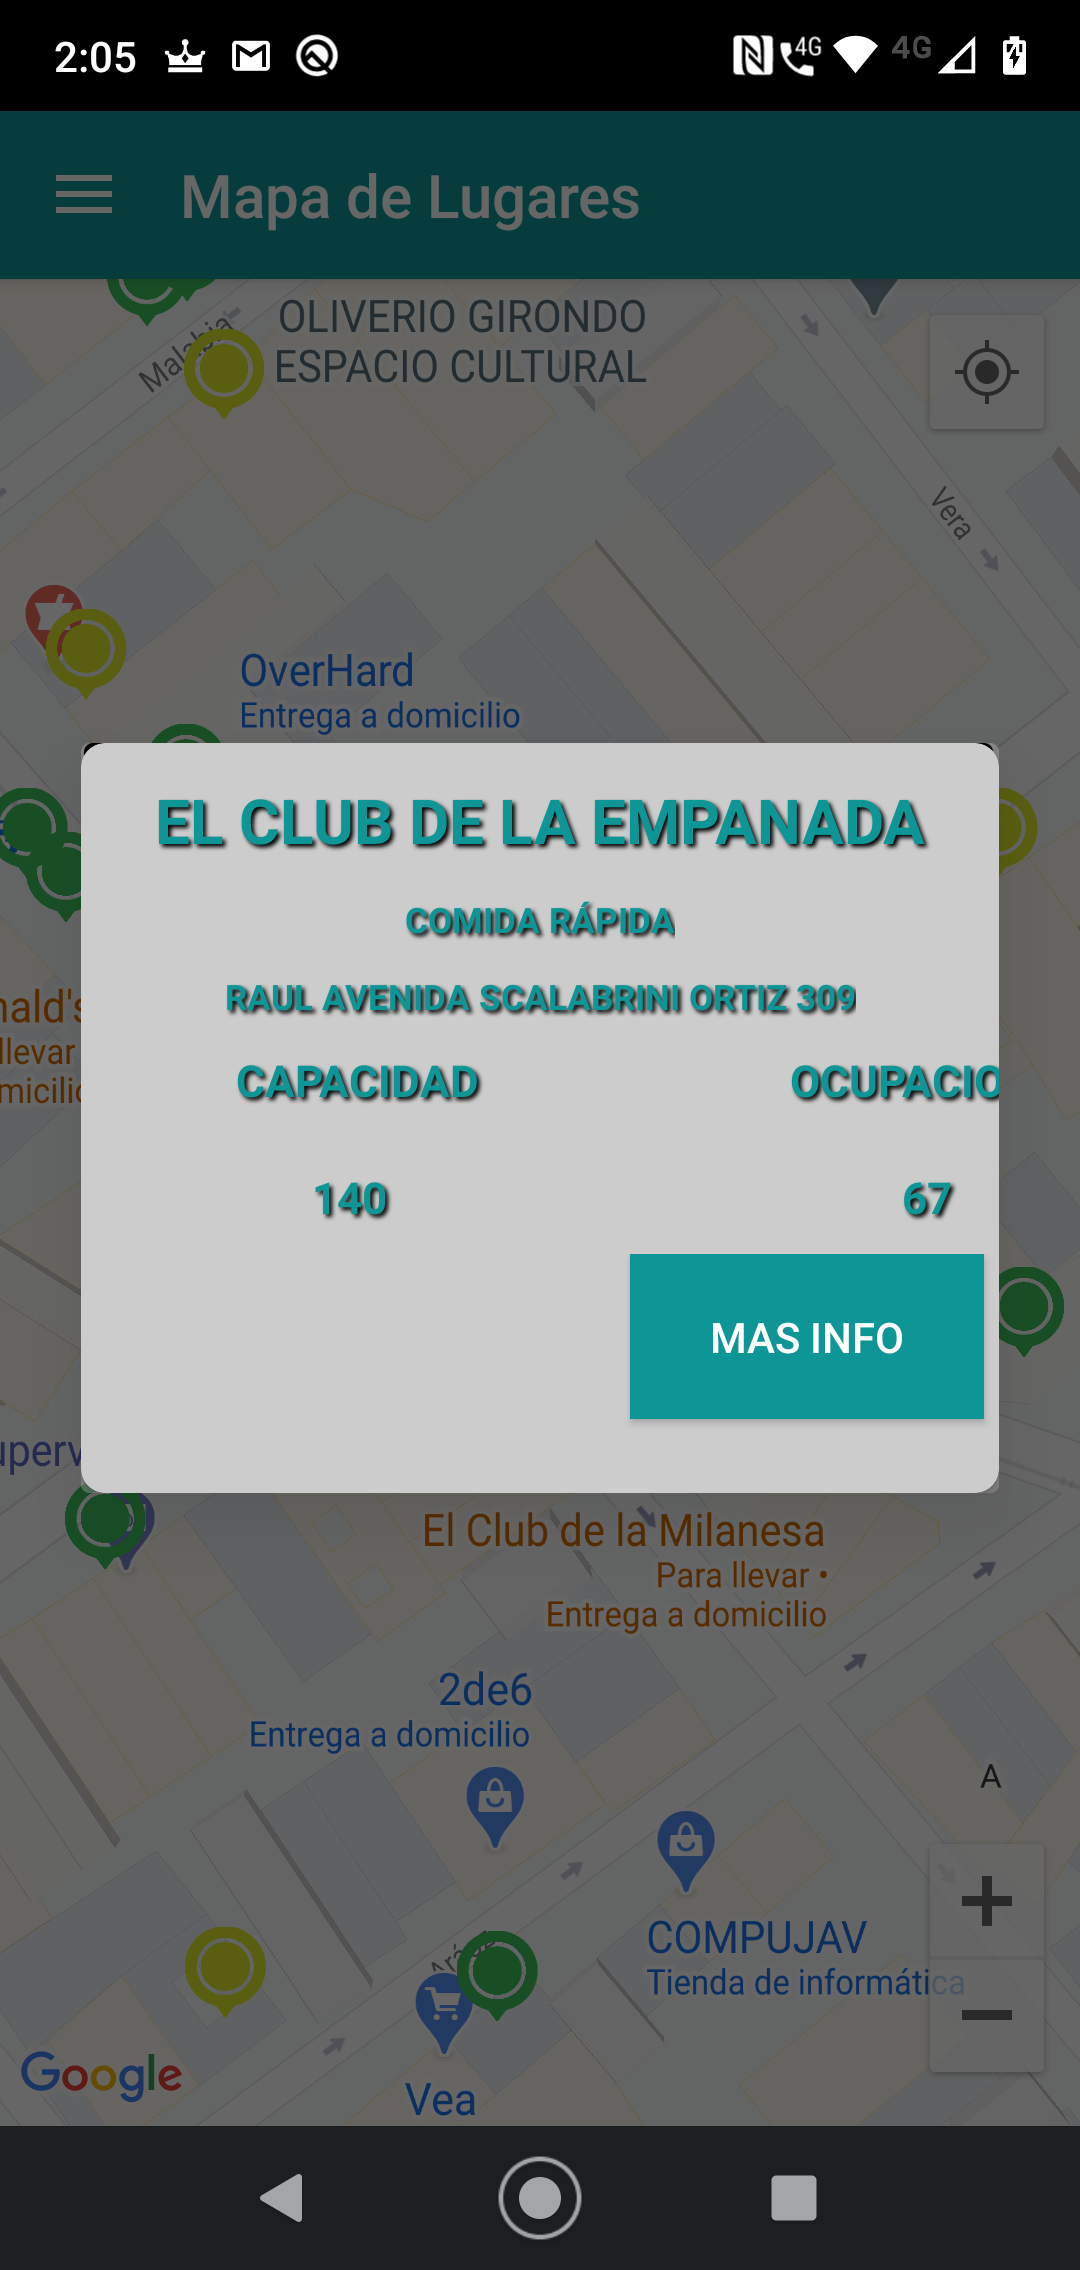
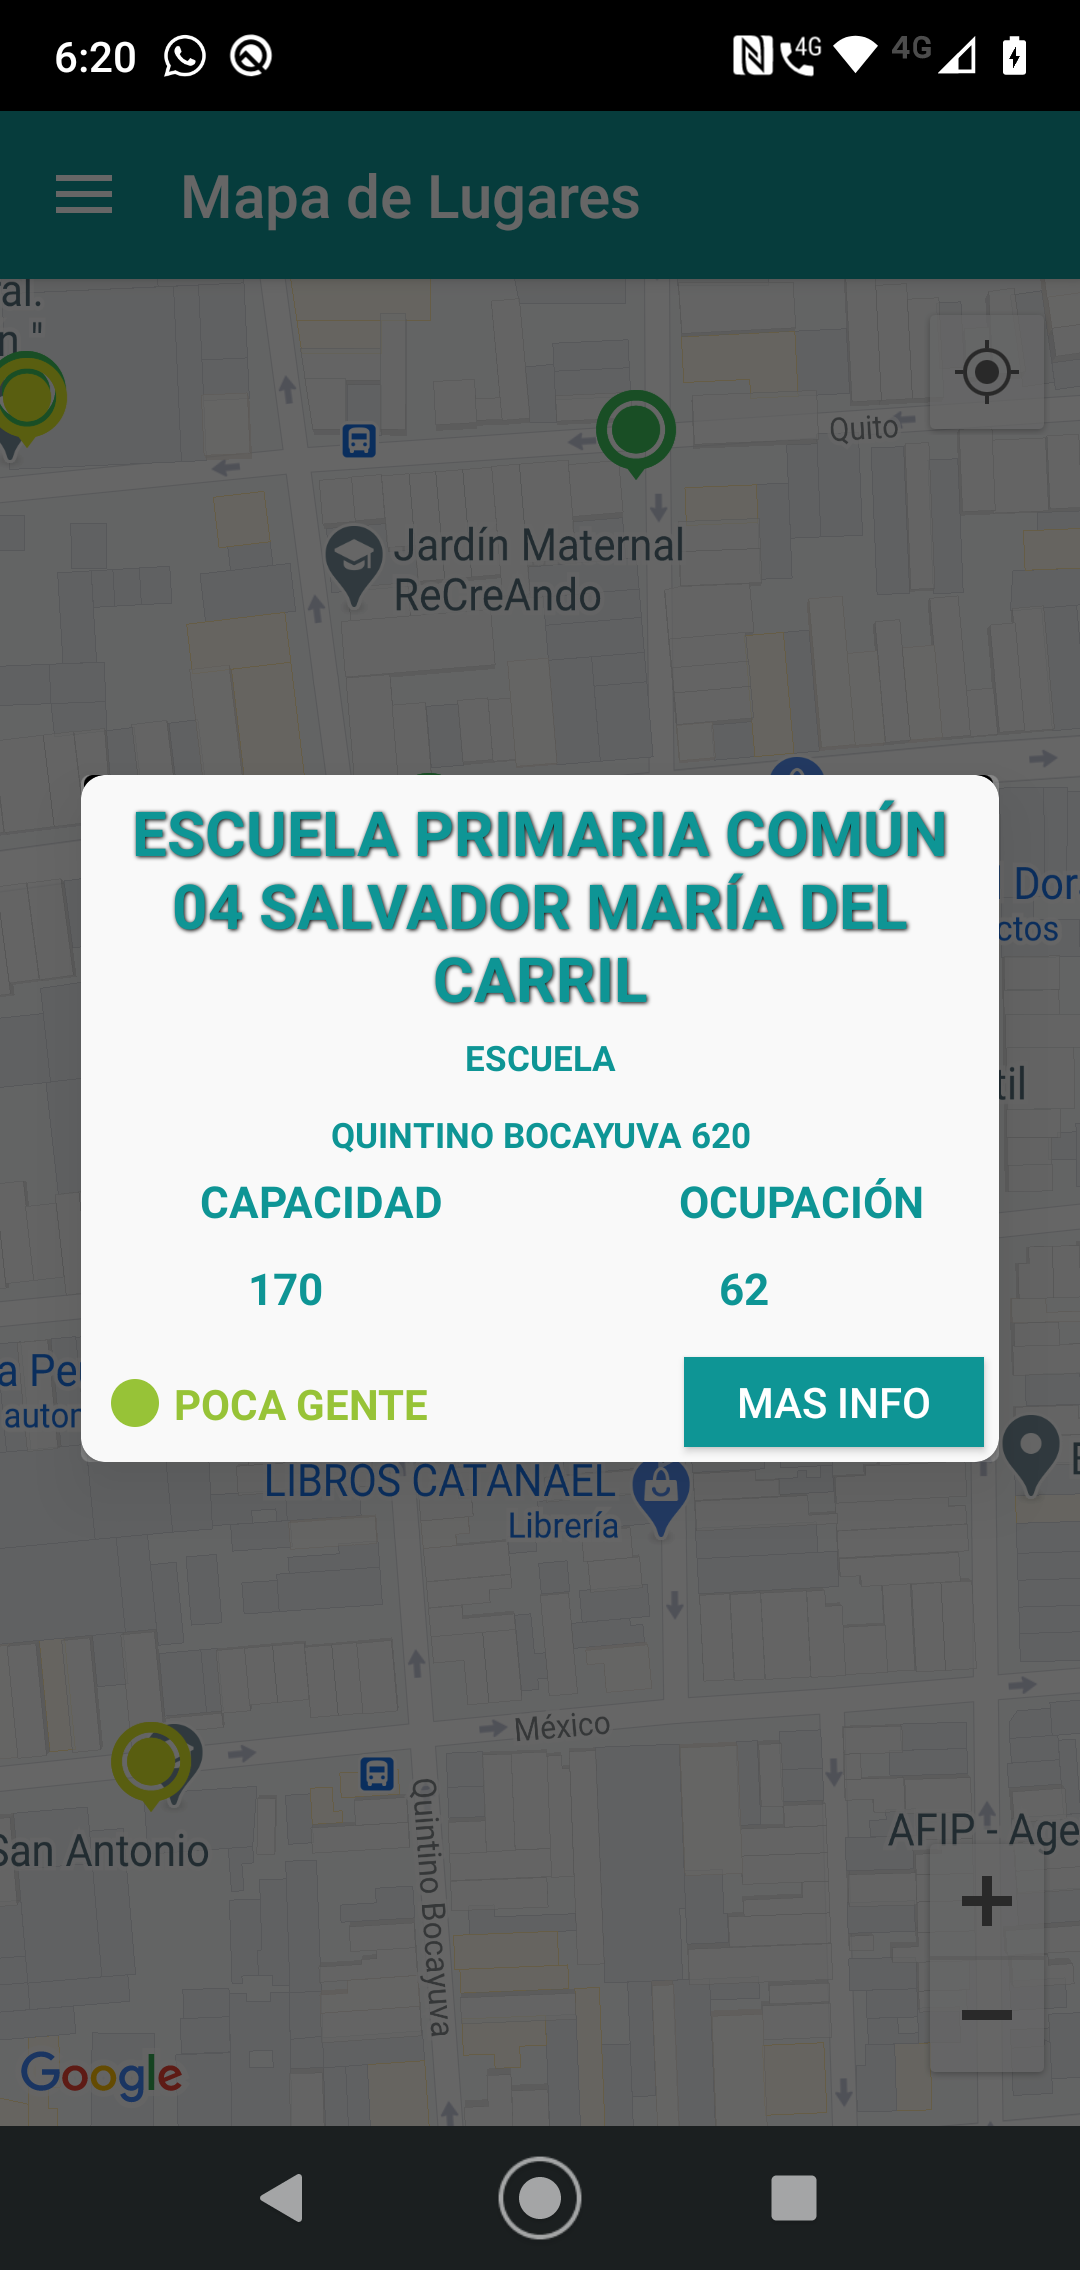
styles adjustments

diff --git a/app/src/main/java/com/utn_frba_mobile_2020_c2/safeout/adapters/PlaceAdapter.kt b/app/src/main/java/com/utn_frba_mobile_2020_c2/safeout/adapters/PlaceAdapter.kt
@@ -88,13 +88,13 @@ class PlaceAdapter(private var places:List<Place>,  private var view : View, pri
                                        PlaceController.getImage("https://salina.nixi.icu/categories/${place.category}/image"
                                             ,{
                                                 place.imgResource = it
+                                               placesFilterList.add(place)
                                             }
                                             ,{ _, _ ->
                                                ViewUtils.showSnackbar(view, R.string.error_image.toString())
+                                               placesFilterList.add(place)
                                                 }
                                             )
-
-                                        placesFilterList.add(place)
                                     }
 
                                 }, { _, message ->

diff --git a/app/src/main/java/com/utn_frba_mobile_2020_c2/safeout/fragments/MarkDetailFragment.kt b/app/src/main/java/com/utn_frba_mobile_2020_c2/safeout/fragments/MarkDetailFragment.kt
@@ -16,6 +16,7 @@ import com.utn_frba_mobile_2020_c2.safeout.models.Place
 import com.utn_frba_mobile_2020_c2.safeout.services.PlaceService
 import com.utn_frba_mobile_2020_c2.safeout.utils.RequestUtils2
 import com.utn_frba_mobile_2020_c2.safeout.utils.ViewUtils
+import com.utn_frba_mobile_2020_c2.safeout.views.OccupationDisplay
 import kotlinx.android.synthetic.main.activity_auth.*
 import kotlinx.android.synthetic.main.fragment_add_reservation.*
 import kotlinx.android.synthetic.main.fragment_mark_detail.*
@@ -56,6 +57,7 @@ class MarkDetailFragment() : DialogFragment() {
         mark_category.text = local.category
         value_capacity.text = local.capacity.toString()
         value_ocupation.text = local.occupation.toString()
+        occupationDisplay.level = OccupationDisplay.calculateLevel(local.occupation!!, local.capacity!!)
         button_info.setOnClickListener {
             openInfo()
         }

diff --git a/README.md b/README.md
@@ -14,37 +14,10 @@ Adicionalmente, creemos que sería sumamente útil para el potencial cliente con
 
 Actualmente no existe nada en el mercado que provea este tipo de información en vivo sobre el nivel de ocupación y capacidad actual de los lugares públicos. Es por eso que proponemos una solución software que brinde esta información a las personas, a través de una aplicación móvil nativa para dispositivos Android.
 
-# Roles de usuario
+# Roles de usuario - Funcionalidades
 La aplicación contará con dos roles de usuario: el administrador del lugar y el usuario final. 
 El administrador del lugar podrá definir y controlar toda clase de parámetros del lugar tales como qué tipo de lugar es (oficina, negocio, restorán, cine, teatro, etc.), qué sectores tiene y cuáles son sus capacidades máximas permitidas. Si la capacidad máxima de un sector es cero, significa que el mismo se encuentra temporalmente cerrado al público.
 
-# Nivel de ocupación y procedimiento de CheckIN y CheckOUT
-Como funcionalidad principal de la aplicación se le ofrece a los usuarios la posibilidad de visualizar el nivel de ocupación en vivo de los distintos sectores de lugares públicos de la ciudad.
-
-Esta información será accesible en las entradas de los lugares a partir de dos métodos:
-- Escaneo de una imagen QR.
-- Escaneo de un dispositivo con NFC. 
-Cada vez que una persona se acerque al lugar con la intención de entrar, se le pedirá que registre su ingreso con uno de estos dos métodos. Para ello la persona deberá tener instalada la aplicación en su propio dispositivo y deberá estar registrada. 
-
-El procedimiento de check-in consistirá en lo siguiente:
-
-- Buscar el lugar al que se quiere ingresar
-- Presionar el botón de "Check-In"
-- Indicar el sector al cual se quiere acceder y registrar el ingreso (los que están llenos o cerrados no se podrán seleccionar)
-    a) NFC: Acercar el dispositivo al del lugar para registrar el ingreso por NFC
-    b) QR: Escanear con la cámara de su dispositivo la imagen QR del lugar.
-
-Los egresos o "Check-Out" también deberán ser registrados para poder mantener la información actualizada. 
-El procedimiento será similar al explicado para los ingresos.
-
-# Reservas
-Como funcionalidad secundaria y complementaria a la principal de obtener el nivel de ocupación de un lugar, se brinda también la posibilidad de hacer reservas a través de la app, con el fin de asegurarse el acceso al lugar que se desea visitar.
-
-Un lugar puede o no aceptar reservas, según fuera previamente configurado por su administrador.
-
-El usuario que desea reservar un lugar deberá indicar el día, horario y sector al que planea ir. Al hacerlo se le mostrará el nivel de ocupación que tendrá ese sector en ese momento. Si todavía hay cupo el usuario podrá confirmar y efectuar la reserva.
-
-# Funcionalidades - Casos de uso
 ## Del administrador del lugar
 - Registrarse e iniciar sesión
 - Configurar parámetros del lugar
@@ -55,10 +28,37 @@ El usuario que desea reservar un lugar deberá indicar el día, horario y sector
 ## Del usuario final
 - Registrarse e iniciar sesión
 - Ver mapa con lugares públicos marcados en él
-- Buscar lugares públicos por el nombre
+- Buscar lugares públicos por el nombre 
 - Consultar los sectores de un lugar y su nivel de ocupación actual
 - Hacer check-in y check-out de un lugar
 - Hacer reservas para un sector de un lugar, y cancelarlas si lo desea
+
+# Nivel de ocupación y procedimiento de CheckIN y CheckOUT
+Como funcionalidad principal de la aplicación se le ofrece a los usuarios la posibilidad de visualizar el nivel de ocupación en vivo de los distintos sectores de lugares públicos de la ciudad.
+
+Esta información será accesible en las entradas de los lugares a partir de dos métodos:
+* Escaneo de una imagen QR.
+* Escaneo de un dispositivo con NFC.\
+
+Cada vez que una persona se acerque al lugar con la intención de entrar, se le pedirá que registre su ingreso con uno de estos dos métodos. Para ello la persona deberá tener instalada la aplicación en su propio dispositivo y deberá estar registrada. 
+
+El procedimiento de check-in consistirá en lo siguiente:
+
+- Buscar el lugar al que se quiere ingresar
+- Presionar el botón de "Check-In"
+- Indicar el sector al cual se quiere acceder y registrar el ingreso (los que están llenos o cerrados no se podrán seleccionar)\
+    a) NFC: Acercar el dispositivo al del lugar para registrar el ingreso por NFC\
+    b) QR: Escanear con la cámara de su dispositivo la imagen QR del lugar.\
+
+Los egresos o "Check-Out" también deberán ser registrados para poder mantener la información actualizada. 
+El procedimiento será similar al explicado para los ingresos.
+
+# Reservas
+Como funcionalidad secundaria y complementaria a la principal de obtener el nivel de ocupación de un lugar, se brinda también la posibilidad de hacer reservas a través de la app, con el fin de asegurarse el acceso al lugar que se desea visitar.
+
+Un lugar puede o no aceptar reservas, según fuera previamente configurado por su administrador.
+
+El usuario que desea reservar un lugar deberá indicar el día, horario y sector al que planea ir. Al hacerlo se le mostrará el nivel de ocupación que tendrá ese sector en ese momento. Si todavía hay cupo el usuario podrá confirmar y efectuar la reserva.
 
 # Alcance y Restricciones
 - Las funcionalidades del administrador se consideran por fuera del alcance de esta propuesta. 

diff --git a/readme-assets/flows.md b/readme-assets/flows.md
@@ -1,7 +1,11 @@
 # Flujo de Pantallas de SafeOut
 
-## Login
+## App Icon + Splash + Login
+<p float="left">
+<img src="0-safeout-icon.png" width="25%">
+<img src="0-safeout-splash.png" width="25%">
 <img src="1-login.png" width="25%">
+</p>
 
 
 ## Menú de Navegación
